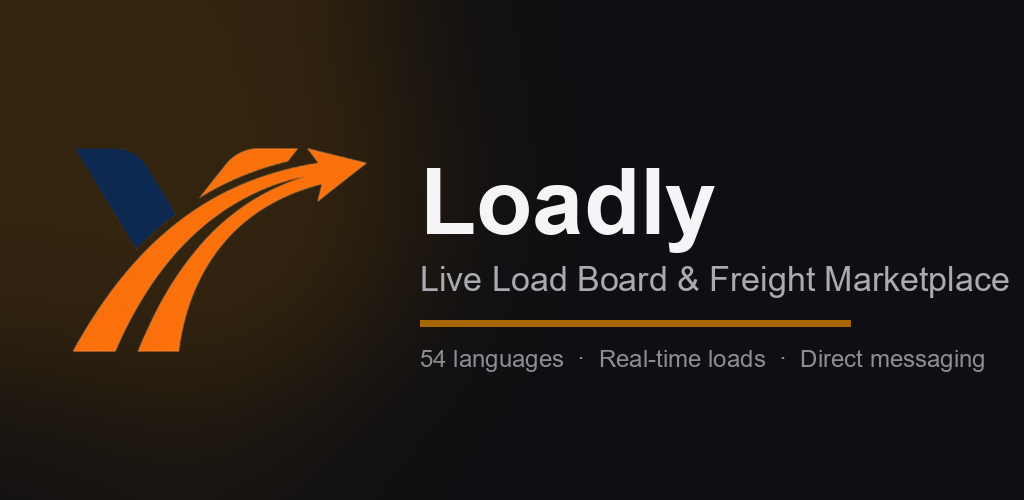
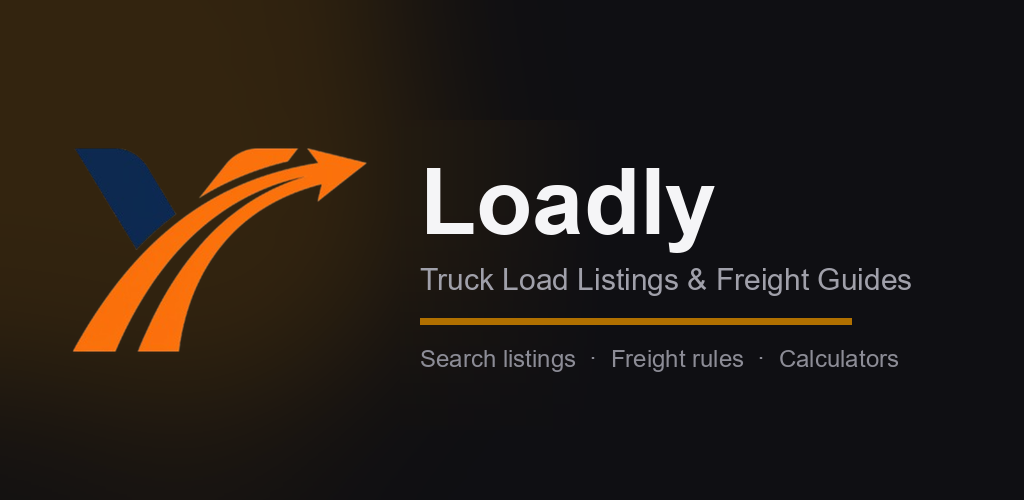
fix(store): remove misleading claims from Play listing assets
Play rejected the app under the Misleading Claims policy (description and
screenshots showed features the app does not have).

- Feature graphic: drop "Marketplace", "Real-time loads", "Direct messaging"
- Screenshots: replace raw captures (test ads, personal data, website copy
  claiming 54 languages) with 4 phone renders of real screens; remove tablet
- CI: stop capturing the website-landing screenshot
- Docs: mark legacy per-locale listing files as superseded by
  google_play_translations.csv

Changed region(s): [[0.4062, 0.51, 1.0, 0.6], [0.4062, 0.69, 0.9688, 0.75], [0.4062, 0.63, 0.8438, 0.66]]

diff --git a/android-app/store-listing/PLAY_CONSOLE_SUBMISSION.md b/android-app/store-listing/PLAY_CONSOLE_SUBMISSION.md
@@ -63,11 +63,11 @@ booted emulator, launches each real screen, and screencaps it:
   separate upload needed. A standalone `icon_512x512.png` also exists for
   the Play Console listing's dedicated icon upload field.
 - Feature graphic: `graphics/feature_graphic_1024x500.png` — done.
-- Phone screenshots: `graphics/screenshots/phone/01_main_webview.png`,
-  `02_marketplace_list.png`, `03_load_detail.png` (3, min 2 required) — done.
-- Tablet screenshots: `graphics/screenshots/tablet/` — same 3 screens,
-  captured too even though not strictly required for a phone-only app —
-  done.
+- Phone screenshots (4, designed marketing renders of the real screens, English headlines):
+  `graphics/screenshots/phone/01_search_loads.png`, `02_filters.png`,
+  `03_listing_details.png`, `04_freight_guides.png`. Old raw captures removed
+  2026-11-13 (test ads, personal data, website copy claiming 54 languages).
+- Tablet screenshots: not provided (optional for this app).
 - Promo video (optional, YouTube URL): none — optional, skip unless wanted.
 
 Upload these directly to Play Console → Store presence → Main store listing

diff --git a/android-app/store-listing/README.md b/android-app/store-listing/README.md
@@ -1,3 +1,5 @@
+> **SUPERSEDED (2026-11-13):** the per-locale `*.md` files and `play_store_listings_all_languages.csv` are the OLD copy and contain claims the app cannot back up (in-app messaging, posting freight, "thousands of loads", local-country listings such as Turkish factory/industrial loads, "54 languages"). Play rejected the app under the Misleading Claims policy. Use ONLY `google_play_translations.csv` (generated from `csv/content.mjs`, US listings + US freight guides) and the corrected `graphics/feature_graphic_1024x500.png`.
+
 # Play Store Listing Content
 
 Per-market copy for the Play Console "Store listing" page (Main store listing + translations).
